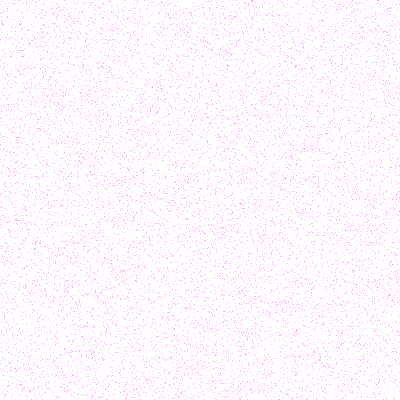
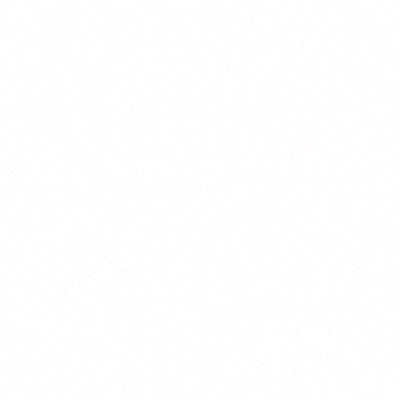
Handle background noise

diff --git a/assets/css/speakers.css b/assets/css/speakers.css
@@ -1,5 +1,5 @@
 .speakers {
-  background: var(--color-dark);
+  background: url('../images/noise-dark.png') center / 25% var(--color-dark);
   color: var(--color-light);
   display: grid;
   position: relative;
@@ -25,7 +25,7 @@
 }
 
 .speakers__content section:before {
-  background: url('../images/noise-dark.png') center / 50%;
+  background: url('../images/noise-hover-dark.png') center / 50%;
   content: '';
   inset: 0;
   opacity: 0;

diff --git a/assets/css/transition.css b/assets/css/transition.css
@@ -2,7 +2,7 @@
   --transition-height: 75vh;
   --transition-min-height: var(--border-height);
 
-  background: var(--color-dark);
+  background: url('../images/noise-dark.png') center / 25% var(--color-dark);
   display: flex;
   flex-direction: column;
   height: calc(var(--transition-height) * (1 - var(--transition-progress)) + var(--transition-min-height) * var(--transition-progress));

diff --git a/assets/css/footer.css b/assets/css/footer.css
@@ -2,7 +2,15 @@
   background: url('../images/footer.jpg') center / cover no-repeat var(--color-dark);
   display: grid;
   height: 40vw;
+  margin-top: -0.1em;
   position: relative;
+}
+
+.footer:before {
+  background: url('../images/noise-dark.png') center / 25%;
+  content: '';
+  inset: 0;
+  position: absolute;
 }
 
 .footer__legal {

diff --git a/assets/css/header.css b/assets/css/header.css
@@ -1,5 +1,5 @@
 .header {
-  background: var(--color-dark);
+  background: url('../images/noise-dark.png') center / 25% var(--color-dark);
   color: var(--color-light);
   display: grid;
   height: calc(100vh - var(--nav-height));

diff --git a/assets/css/experience.css b/assets/css/experience.css
@@ -21,7 +21,7 @@
 }
 
 .experience__content dl:before {
-  background: url('../images/noise-light.png') center / 50%;
+  background: url('../images/noise-hover-light.png') center / 50%;
   content: '';
   inset: 0;
   opacity: 0;

diff --git a/assets/css/elements.css b/assets/css/elements.css
@@ -4,7 +4,7 @@ html {
 }
 
 body {
-  background: var(--color-light);
+  background: url('../images/noise-light.png') center / 25% var(--color-light);
   color: var(--color-dark);
   display: flex;
   flex-direction: column;

diff --git a/assets/css/register.css b/assets/css/register.css
@@ -1,5 +1,5 @@
 .register {
-  background: var(--color-dark);
+  background: url('../images/noise-dark.png') center / 25% var(--color-dark);
   color: var(--color-light);
   display: grid;
   position: relative;
